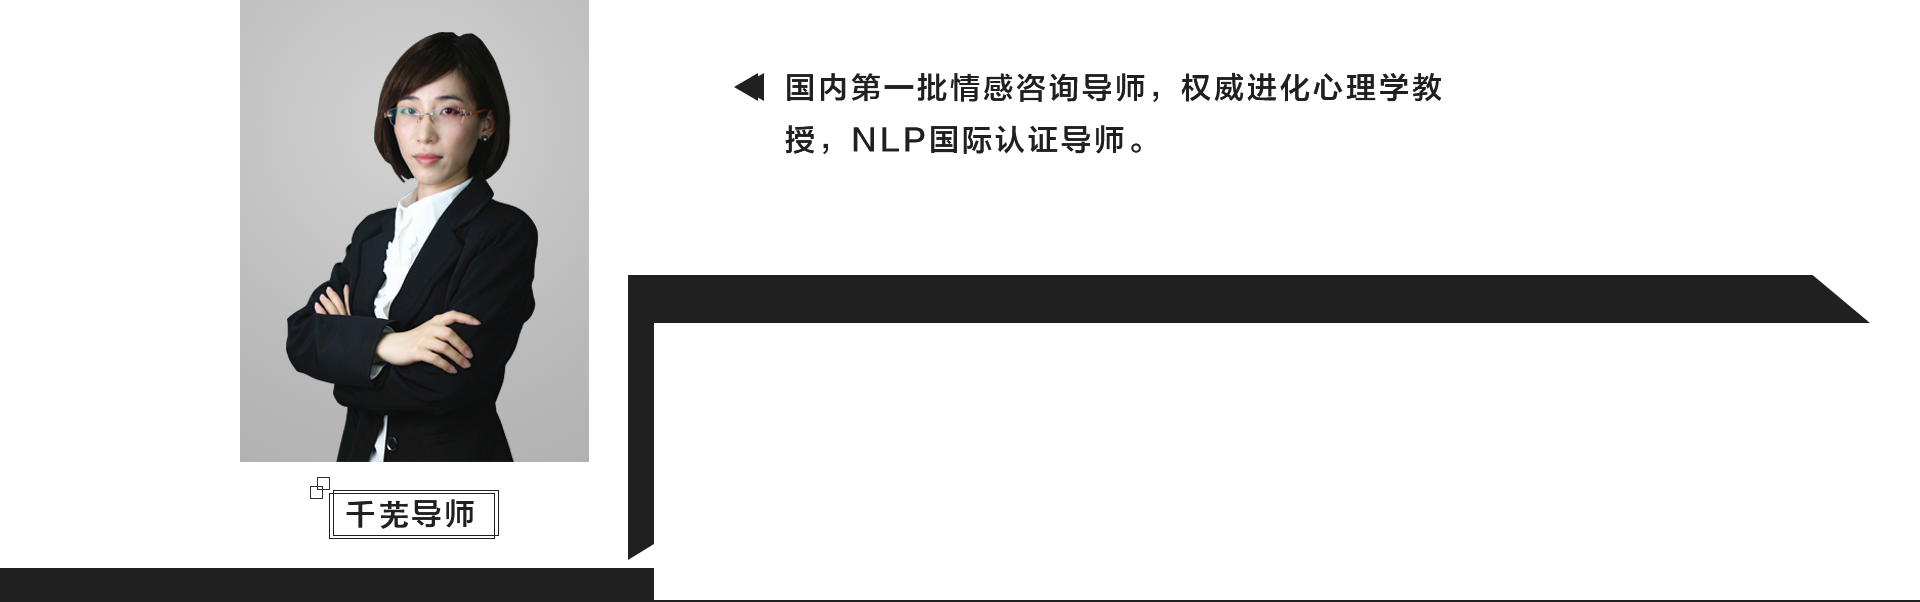
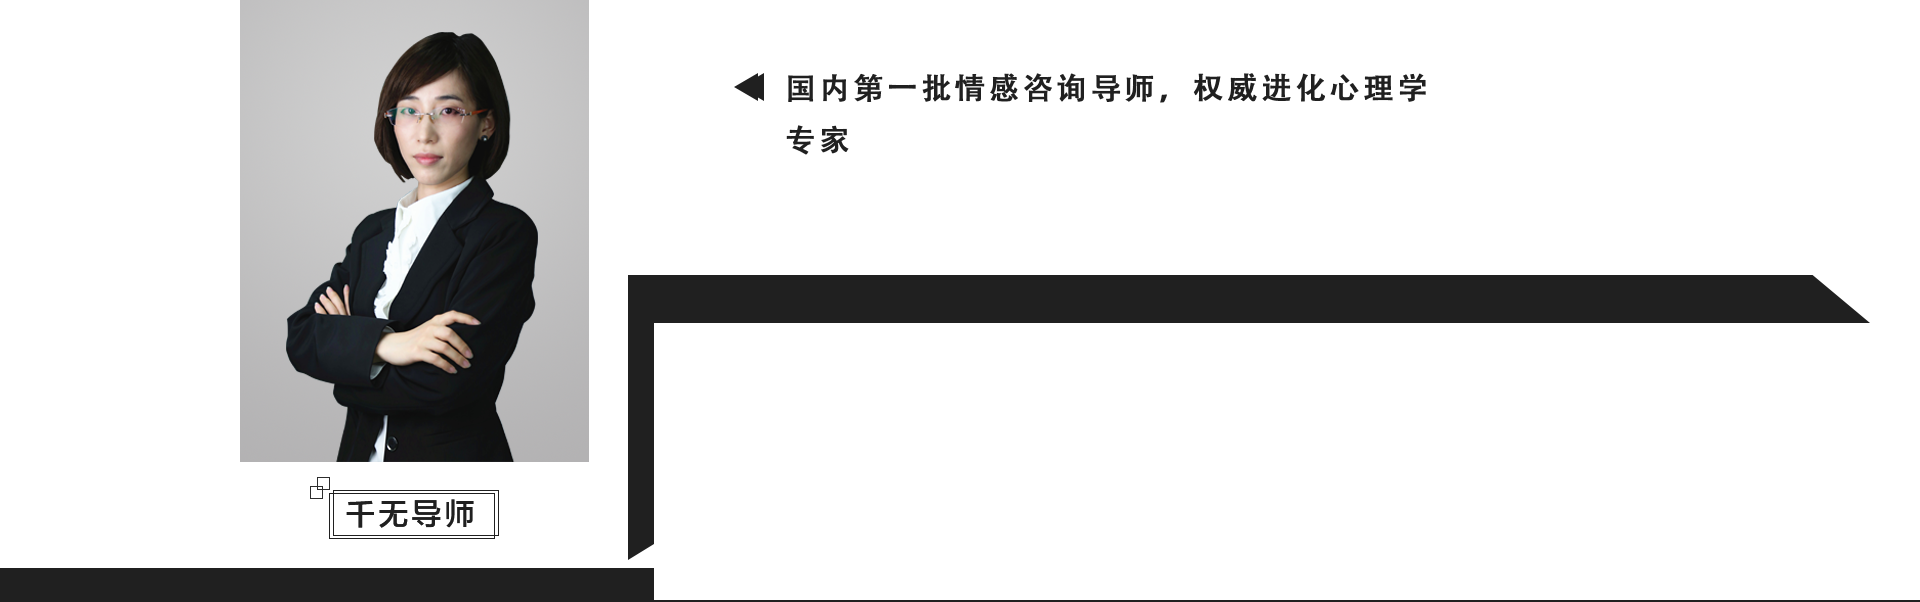
更新王志刚

Changed region(s): [[0.4062, 0.1196, 0.75, 0.1794], [0.4062, 0.2093, 0.5938, 0.2691], [0.1875, 0.8372, 0.2188, 0.8671]]

diff --git a/focus-team.html b/focus-team.html
@@ -233,7 +233,7 @@
 							您身边的情感专家
 						</h2>
 						<p>
-							12个导师组，106位资深情感导师，其中包括平均从业4年以上的国家心理咨询师、专业心理侧写师、国家级婚恋咨询师、情感挽回专家、情感维稳师等专业导师，为您的爱情保驾护航。
+							橘子情感的导师团队，均为资深全职导师，其中包括平均从业4年以上的国家心理咨询师、专业心理侧写师、国家级婚恋咨询师、情感挽回专家、情感维稳师等专业导师，为您的爱情保驾护航。
 						</p>
 						<p>
 							
@@ -266,7 +266,7 @@
                                     <div class="txt">
                                         <div class="name">嘉伟</div>
                                         <p class="des">
-                                            橘子情感创始人，国内首批情感挽回专家，NLP学院常务会员
+                                            橘子情感创始人，两性情感指导专家
                                         </p>
                                         <div class="btn">
                                             <button type="button" onclick="window.open('./views/page1.html')">了解详情</button>
@@ -283,7 +283,7 @@
                                     <div class="txt">
                                         <div class="name">杰妮</div>
                                         <p class="des">
-                                            资深情感专家，女性心理与行为侧写师，国家二级心理咨询师
+                                            资深情感专家，女性心理与行为侧写师
                                         </p>
                                         <div class="btn">
                                             <button type="button" onclick="window.open('./views/page7.html')">了解详情</button>
@@ -304,7 +304,7 @@
                                     <div class="txt">
                                         <div class="name">路加</div>
                                         <p class="des">
-                                            首席挽回专家，浙江大学教育学博士，国家二级心理咨询师
+                                            首席挽回专家，国家二级心理咨询师
                                         </p>
                                         <div class="btn">
                                             <button type="button" onclick="window.open('./views/page5.html')">了解详情</button>
@@ -321,7 +321,7 @@
                                     <div class="txt">
                                         <div class="name">千芜</div>
                                         <p class="des">
-                                            国内首批情感挽回专家，权威进化心理学教授，NLP国际认证导师
+                                            国内首批情感挽回专家，权威进化心理学专家
                                         </p>
                                         <div class="btn">
                                             <button type="button" onclick="window.open('./views/page6.html')">了解详情</button>
@@ -342,10 +342,10 @@
                             <div class="item-group">
                                 <div class="item">
                                     <div class="pic">
-                                        <img src="img/focus-team/m03-page02-person01.png" alt="">
+										<img src="img/focus-team/m03-page02-person04.png" alt=""><!-- 莫言 -->
                                     </div>
                                     <div class="txt">
-                                        <div class="name">柒月</div>
+										<div class="name">茉言</div>
                                         <p class="des">
                                             国家二级心理咨询师，前世纪佳缘金牌红娘，高级形象设计师
                                         </p>
@@ -359,10 +359,10 @@
                                 </div>
                                 <div class="item">
                                     <div class="pic">
-                                        <img src="img/focus-team/m03-page02-person02.png" alt="">
+										<img src="img/focus-team/m03-page02-person01.png" alt=""><!-- 七月 -->
                                     </div>
                                     <div class="txt">
-                                        <div class="name">阿苏</div>
+										<div class="name">柒月</div>
                                         <p class="des">
                                             资深情感咨询分析师，国家二级心理咨询师，美学专业背景形象指导
                                         </p>
@@ -397,10 +397,10 @@
                                 </div>
                                 <div class="item">
                                     <div class="pic">
-                                        <img src="img/focus-team/m03-page02-person04.png" alt="">
+										<img src="img/focus-team/m03-page02-person02.png" alt="">
                                     </div>
                                     <div class="txt">
-                                        <div class="name">茉言</div>
+										<div class="name">阿苏</div>
                                         <p class="des">
                                             门萨俱乐部成员，两性心理学研究者，情感关系专栏作家 。
                                         </p>

diff --git a/save-marriage.html b/save-marriage.html
@@ -256,7 +256,7 @@
 					<div class="main">
 						<div class="bg">
 							<div class="para">
-								<p class="top-para">中国情感挽回行业权威领导者，八年从业经验，已经累计为数万人解决情感问题，针对挽回婚姻、 挽回爱情、分离小三、长期关系维护等领域具有权威地位。
+								<p class="top-para">中国情感挽回行业权威领导者，导师拥有多年从业经验，已经累计为数万人解决情感问题，针对挽回婚姻、 挽回爱情、分离小三、长期关系维护等领域具有权威地位。
 								</p>
 								<p class="bot-para">由国内顶尖情感挽回师、情感维稳师、心理咨询师、心理侧写师、进化心理学专家、 两性心理学专家联合组成强大的理论供给团队，为两性情感解决方案提供理论基础。
 								</p>

diff --git a/index.html b/index.html
@@ -444,7 +444,7 @@
 								<img src="img/index/5.png" alt="">
 								<div class="txt text-left">
 									<div class="name">千芜</div>
-									<div class="info">国内首批情感挽回专家，权威进化心理学教授</div>
+									<div class="info">国内首批情感挽回专家，权威进化心理学专家</div>
 									<div class="des">导师寄语：通向幸福的路也许有千万条，也许你认为每一条都荆棘满布，但我会用我的专业与真诚，引领你寻找到幸福的捷径。</div>
 									<div class="button_base b06_skewed_slide_in" onclick="window.open('./views/page6.html')">
 										<div>了解导师</div>

diff --git a/custom-love.html b/custom-love.html
@@ -489,7 +489,7 @@
                                         </div>
                                     </div>
 									<p class="para">
-										橘子情感在业内广受好评，截止目前已经帮助近10000对用户寻得真爱，收获幸福。深受广大客户的认同和好评。
+										橘子情感在业内广受好评，截止目前已经帮助大量用户寻得真爱，收获幸福。深受广大客户的认同和好评。
 									</p>
 								</div>
 							</div>

diff --git a/views/page6.html b/views/page6.html
@@ -158,7 +158,7 @@
 							<div class="mentor mentor-intro">
 								<p class="name title">千无导师：</p>
 								<p class="intro">
-									国内首批情感挽回专家，权威进化心理学教授，NLP国际认证导师
+									国内首批情感挽回专家，权威进化心理学专家
 								</p>
 							</div>
 							<div class="mentor mentor-des">

diff --git a/views/page7.html b/views/page7.html
@@ -158,7 +158,7 @@
 							<div class="mentor mentor-intro">
 								<p class="name title">杰妮导师：</p>
 								<p class="intro">
-									资深情感专家，女性心理与行为侧写师，国家二级心理咨询师
+									资深情感专家，女性心理与行为侧写师
 								</p>
 							</div>
 							<div class="mentor mentor-des">

diff --git a/views/page1.html b/views/page1.html
@@ -158,7 +158,7 @@
 							<div class="mentor mentor-intro">
 								<p class="name title">嘉伟导师：</p>
 								<p class="intro">
-									橘子情感创始人，国内首批情感挽回专家，NLP学院常务会员
+									橘子情感创始人，两性情感指导专家
 								</p>
 							</div>
 							<div class="mentor mentor-des">

diff --git a/views/page5.html b/views/page5.html
@@ -158,7 +158,7 @@
 							<div class="mentor mentor-intro">
 								<p class="name title">路加导师：</p>
 								<p class="intro">
-									首席挽回专家，浙江大学教育学博士，国家二级心理咨询师
+									首席挽回专家，国家二级心理咨询师
 								</p>
 							</div>
 							<div class="mentor mentor-des">
